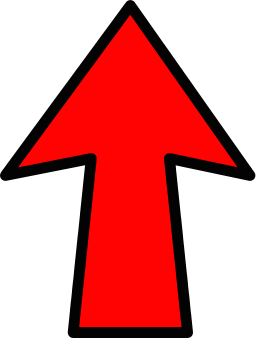
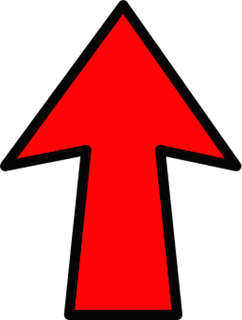
finished heading VC

diff --git a/GMMobile/SettingsViewController.m b/GMMobile/SettingsViewController.m
@@ -793,8 +793,34 @@ didReturnTimeInterval:(NSString *)timeInterval
 
 - (IBAction)showHeadingVC:(id)sender
 {
-    NVHeadingViewController *headingVC = [NVHeadingViewController showHeadingViewController:self];
+    NVHeadingViewController *headingVC = [NVHeadingViewController showHeadingViewControllerWithDelegate:self
+                                                                                        stabilityFactor:2.0];
 #pragma unused(headingVC)
+}
+
+- (void)headingViewController:(NVHeadingViewController *)headingViewController
+             didReturnHeading:(NSInteger)heading
+{
+    [headingViewController dismissViewControllerAnimated:YES
+                                              completion:nil];
+    
+    [_gssiAlert showAlertWithTitle:@"Heading View Controller"
+                           message:[NSString stringWithFormat:@"Average Heading: %ld", (long)heading]
+                 cancelButtonTitle:@"OK"
+                 otherButtonTitles:nil
+         destructiveButtonPosition:0];
+}
+
+- (void)headingViewControllerDidCancel:(NVHeadingViewController *)headingViewController
+{
+    [headingViewController dismissViewControllerAnimated:YES
+                                              completion:nil];
+    
+    [_gssiAlert showAlertWithTitle:@"Heading View Controller"
+                           message:@"Heading Measurement Cancelled"
+                 cancelButtonTitle:@"OK"
+                 otherButtonTitles:nil
+         destructiveButtonPosition:0];
 }
 
 @end

diff --git a/GMMobile/SettingsViewController.h b/GMMobile/SettingsViewController.h
@@ -4,7 +4,7 @@
 #import "../../CCodeLibrary/CCodeLibrary/CCodeLibrary.h"
 #import <MessageUI/MessageUI.h>
 
-@interface SettingsViewController : UIViewController <FTPDataPullDelegate,GSSiPopoverViewDelegate,GSSiAlertDelegate,MFMailComposeViewControllerDelegate,GSSiBumpDetectorDelegate>
+@interface SettingsViewController : UIViewController <FTPDataPullDelegate,GSSiPopoverViewDelegate,GSSiAlertDelegate,MFMailComposeViewControllerDelegate,GSSiBumpDetectorDelegate,NVHeadingViewControllerDelegate>
 
 - (IBAction)loadDatabase:(id)sender;
 - (IBAction)preloadTiles:(id)sender;
